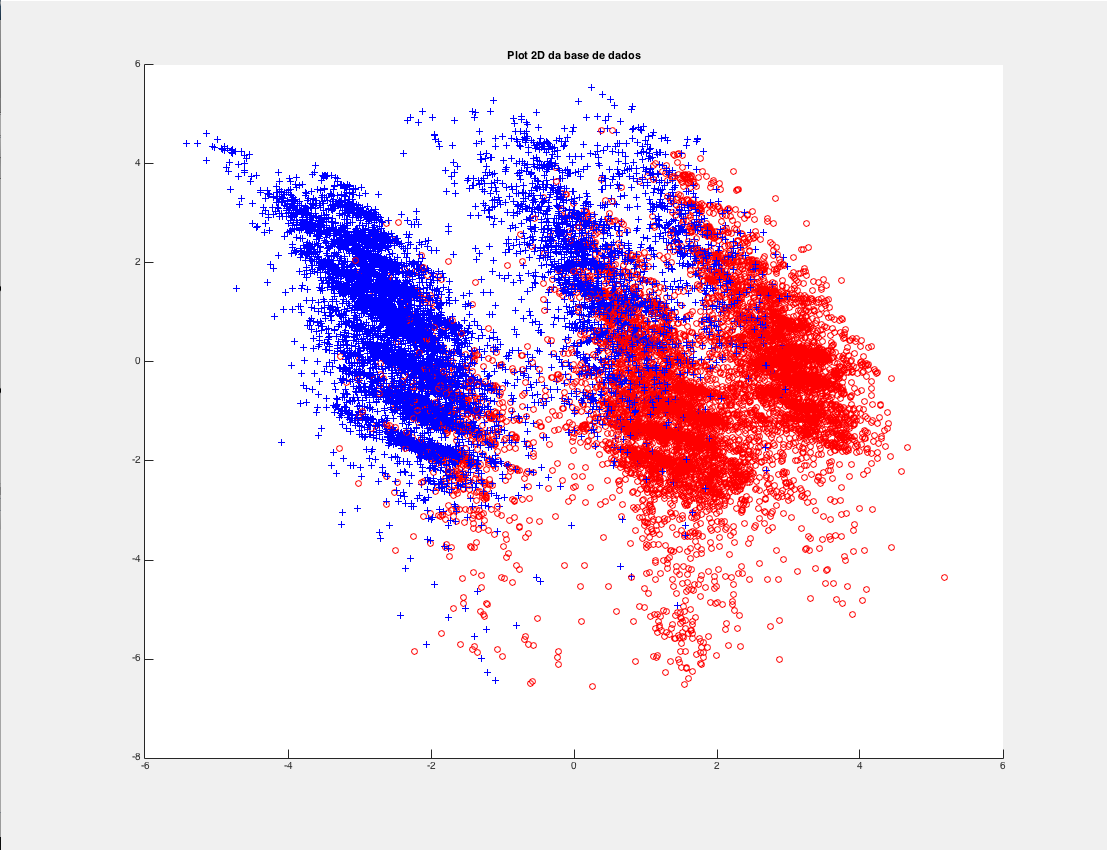
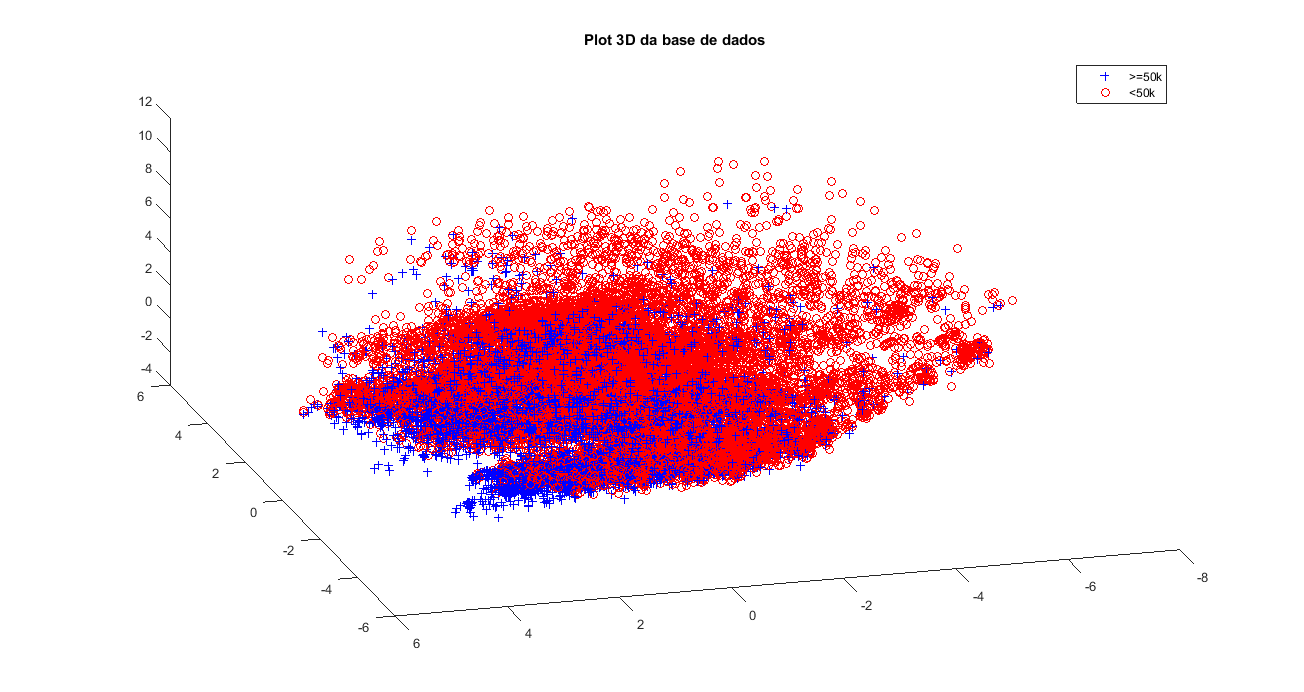
Grafico dos dados

diff --git a/Relatório/basededados.tex b/Relatório/basededados.tex
@@ -40,7 +40,7 @@ Implementou-se 2 tipos de normalização para todos os atributos, exceto o atrib
 
 Para se permitir a visualizção dos dados, implementou-se a Análise de componentes principais (PCA), para redução dos 105 atributos para 2, resultando na imagem disposta na Figura \ref{fig:dados2d}, na qual a classe positiva, renda igual ou superior a 50 mil dólares anuais, é representada por \textcolor{blue}{+} e a classe negativa, renda inferior a 50 mil dólares anuais, é representada por \textcolor{red}{o}.
 
-\begin{figure}
+\begin{figure}[h]
 \centering
 \makebox[\columnwidth]{\includegraphics[width=\columnwidth]{dados2d}}
 \caption{Plot 2D dos atributos}

diff --git a/Matlab/projetoRenda.m b/Matlab/projetoRenda.m
@@ -64,8 +64,8 @@ if strcmpi(plotar, 'S')
     neg = find(rotulosNormalizados == 0);
     figure; hold on;
     namostras = 5000;
-    scatter3(Z(pos(1:namostras), 1), Z(pos(1:namostras), 2), Z(pos(1:namostras), 3), 'b+');
-    scatter3(Z(neg(1:namostras), 1), Z(neg(1:namostras), 2), Z(neg(1:namostras), 3), 'ro');
+    scatter3(Z(pos, 1), Z(pos, 2), Z(pos, 3), 'b+');
+    scatter3(Z(neg, 1), Z(neg, 2), Z(neg, 3), 'ro');
     legend('>=50k','<50k');
 
     %plot(Z(neg(1:10000), 1), Z(neg(1:10000), 2), 'ko', 'MarkerFaceColor', 'r', 'MarkerSize', 7);
